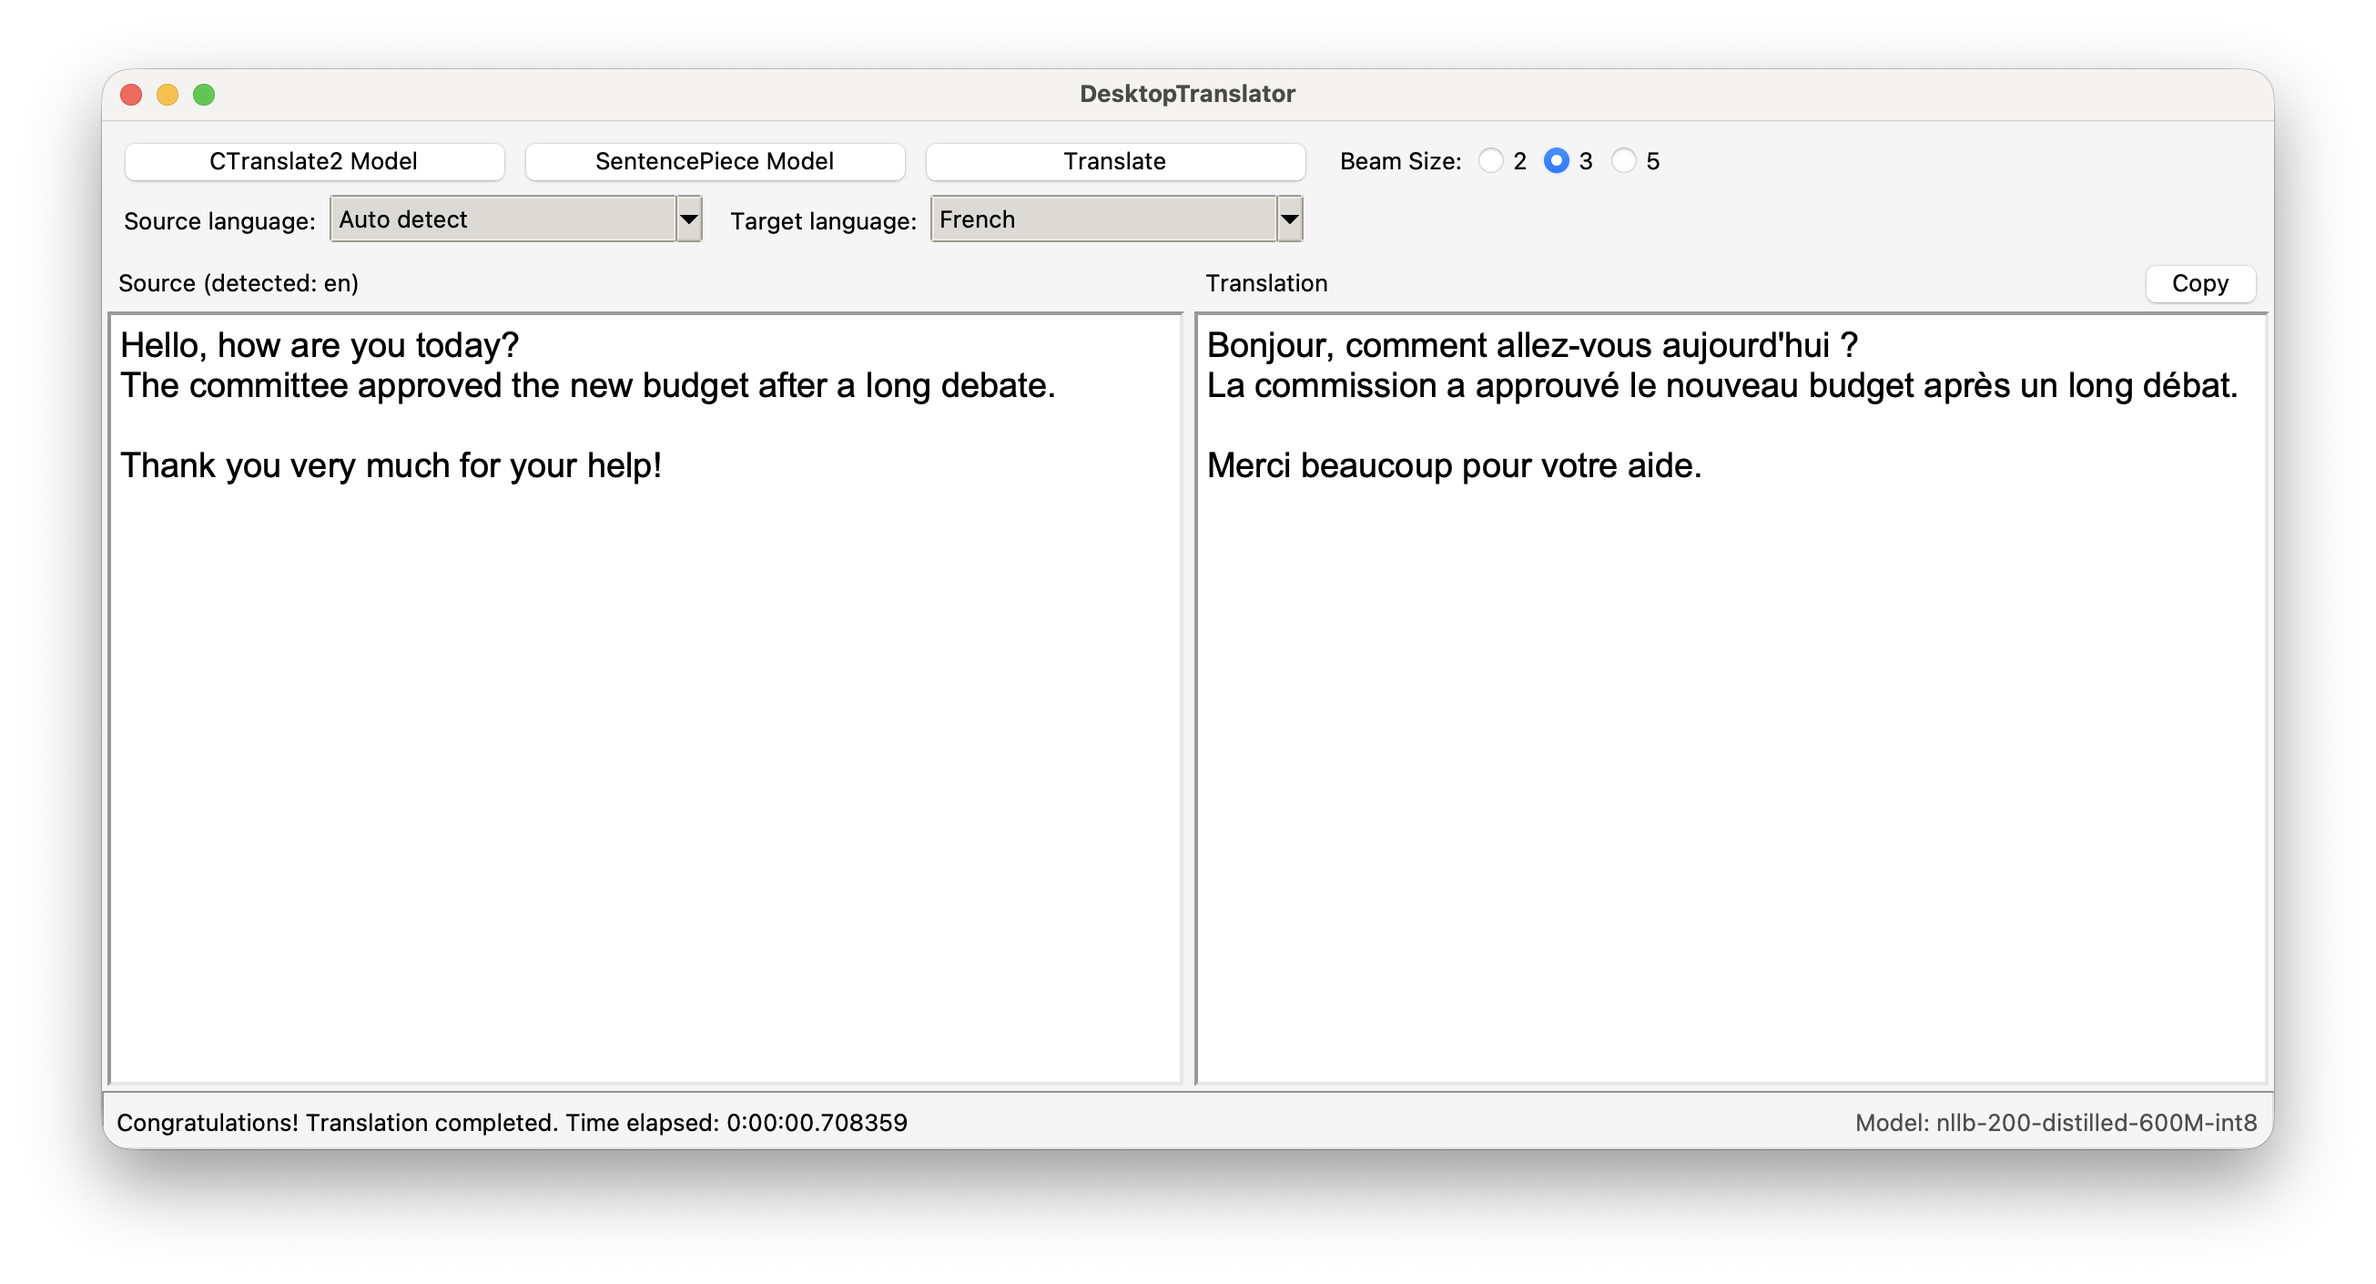
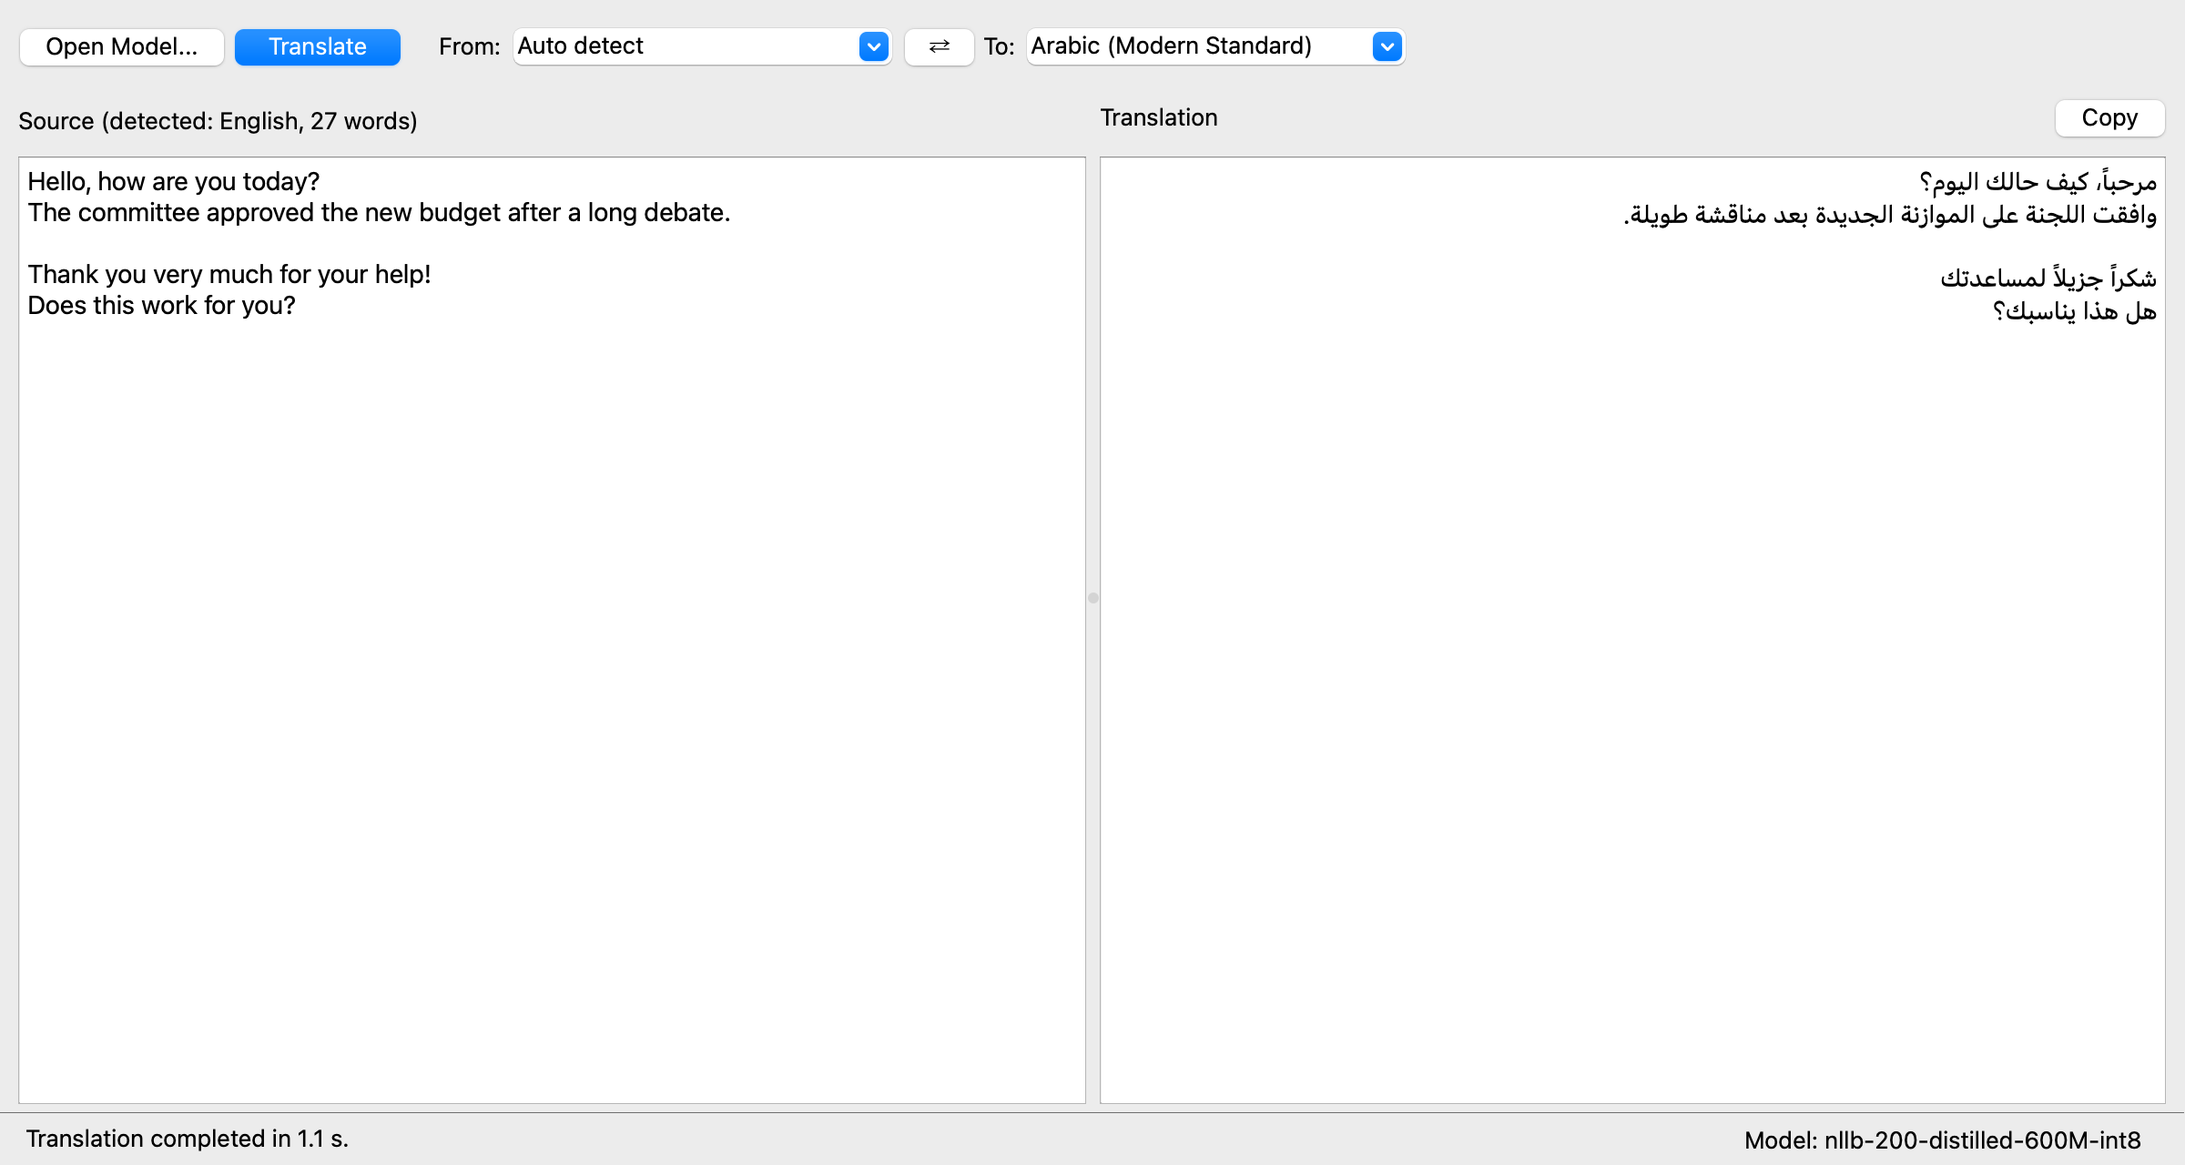
Update the README, CHANGELOG, and screenshot for the Qt interface

Changed region(s): [[0.0, 0.0, 1.0, 1.0], [0.5, 0.3438, 0.7188, 0.375], [0.75, 0.1875, 0.7812, 0.2188]]

diff --git a/README.md b/README.md
@@ -1,14 +1,15 @@
-[![DesktopTranslator](https://img.shields.io/badge/Download-Windows_Installer_v0.3.2-blue)](https://github.com/ymoslem/DesktopTranslator/releases/download/v0.3.2/DesktopTranslator_Windows_0.3.2.exe)
-[![DesktopTranslator](https://img.shields.io/badge/Download-macOS_App_v0.3.2-red)](https://github.com/ymoslem/DesktopTranslator/releases/download/v0.3.2/DesktopTranslator_macOS_0.3.2.zip)
+[![DesktopTranslator](https://img.shields.io/badge/Download-Windows_Installer_v0.4.0-blue)](https://github.com/ymoslem/DesktopTranslator/releases/download/v0.4.0/DesktopTranslator_Windows_0.4.0.exe)
+[![DesktopTranslator](https://img.shields.io/badge/Download-macOS_App_v0.4.0-red)](https://github.com/ymoslem/DesktopTranslator/releases/download/v0.4.0/DesktopTranslator_macOS_0.4.0.zip)
 
 # DesktopTranslator
-Local cross-platform machine translation GUI, based on [CTranslate2](https://github.com/OpenNMT/CTranslate2)
+Local cross-platform machine translation app, based on [CTranslate2](https://github.com/OpenNMT/CTranslate2). Your text stays on your computer.
 
 ![DesktopTranslator](img/DesktopTranslator.png)
 
 **Table of contents**
 
 1. [Download DesktopTranslator](#download-desktoptranslator)
+1. [Using DesktopTranslator](#using-desktoptranslator)
 1. [Run from Source](#run-from-source)
 1. [Translation Models](#translation-models)
     * [French-to-English Generic Model](#french-to-english-generic-model)
@@ -23,41 +24,65 @@ Local cross-platform machine translation GUI, based on [CTranslate2](https://git
     
 ## Download DesktopTranslator
    
-[![DesktopTranslator](https://img.shields.io/badge/Download-Windows_Installer_v0.3.2-blue)](https://github.com/ymoslem/DesktopTranslator/releases/download/v0.3.2/DesktopTranslator_Windows_0.3.2.exe)
-[![DesktopTranslator](https://img.shields.io/badge/Download-macOS_App_v0.3.2-red)](https://github.com/ymoslem/DesktopTranslator/releases/download/v0.3.2/DesktopTranslator_macOS_0.3.2.zip)
+[![DesktopTranslator](https://img.shields.io/badge/Download-Windows_Installer_v0.4.0-blue)](https://github.com/ymoslem/DesktopTranslator/releases/download/v0.4.0/DesktopTranslator_Windows_0.4.0.exe)
+[![DesktopTranslator](https://img.shields.io/badge/Download-macOS_App_v0.4.0-red)](https://github.com/ymoslem/DesktopTranslator/releases/download/v0.4.0/DesktopTranslator_macOS_0.4.0.zip)
 
 <img src="img/installer.png" width="60%">
 
 The installers are not signed. On macOS (Apple Silicon), open **System Settings** > **Privacy & Security** and click **Open Anyway** the first time you launch the app. On Windows, SmartScreen may show a warning; click **More info** > **Run anyway**.
 
 
+## Using DesktopTranslator
+
+1. Choose <kbd>Translate</kbd> menu \> <kbd>Open Model...</kbd> (<kbd>Ctrl</kbd>/<kbd>Cmd</kbd> + <kbd>M</kbd>) and select the folder of a [translation model](#translation-models). The SentencePiece model is found in the same folder; if there are several, you are asked which one to use.
+2. For a multilingual model, select the target language. The source language is detected, and the Source header shows it with the number of words. To choose the source language yourself, use the <kbd>From</kbd> list. The <kbd>⇄</kbd> button swaps the two languages.
+3. Type or paste text on the left, or open a file with <kbd>File</kbd> menu \> <kbd>Open Text...</kbd> (plain text files only; use <kbd>Reopen Text with Encoding...</kbd> if the characters look wrong). You can also drop a text file on the source pane.
+4. Click <kbd>Translate</kbd>. The translation appears as it is made, with the time left, and you can click <kbd>Cancel</kbd> to stop; the part that is done is kept. Use <kbd>Copy</kbd> or <kbd>File</kbd> menu \> <kbd>Save Translation...</kbd> when it is finished.
+
+Right-to-left languages such as Arabic, Persian, Urdu, and Hebrew are displayed and edited right to left, and the app follows the dark mode of your system. Use the <kbd>View</kbd> menu to change the text size.
+
+**Preferences** (<kbd>Edit</kbd> menu \> <kbd>Preferences...</kbd>)
+
+| Option | Effect |
+|---|---|
+| Translation quality | Fast (beam size 2), Balanced (3, the default), or Accurate (5, slower and sometimes better) |
+| Avoid repeated words | A repetition penalty of 1.2, off by default because translations scored higher without it in tests (`tests/repetition_penalty_eval.py`) |
+| Join lines inside a paragraph | For text from PDF files or OCR, where lines break in the middle of a sentence |
+| Remember the last model and target language | Opens the same model the next time |
+
+**Long texts.** The text area accepts up to 20,000 words. For a longer text, use <kbd>File</kbd> menu \> <kbd>Translate Document...</kbd> (<kbd>Ctrl</kbd>/<kbd>Cmd</kbd> + <kbd>Shift</kbd> + <kbd>O</kbd>), which translates a plain text file into another file in the background, with progress and the time left. If you cancel, the translated part is saved. PDF and Word files are not supported; save them as plain text first.
+
+Each sentence is translated on its own, and a sentence that repeats is translated once and reused, so it is translated the same way everywhere.
+
+**Memory.** A model needs about 1.3 times the size of its `model.bin` file, plus 1 GB, and the app warns you if the computer has less memory free. Measured peaks are about 1.7 GB for NLLB-200 600M, 2.6 GB for 1.3B, and 5.4 GB for 3.3B.
+
+
 ## Run from Source
 
-You need Python 3.11 or later, with Tkinter. The installers from [python.org](https://www.python.org/downloads/) include Tkinter. On Linux, you can install it with your package manager, e.g. `sudo apt install python3-tk`.
+You need Python 3.11 or later.
 ```
 git clone https://github.com/ymoslem/DesktopTranslator.git
 cd DesktopTranslator
 python3 -m venv .venv
 source .venv/bin/activate
 pip install -r requirements.txt
-python translator.py
+python qt_app.py
 ```
 On Windows, activate the virtual environment with `.venv\Scripts\activate`.
 
 
 ## Translation Models
 
-Currently, DesktopTranslator supports CTranslate2 models, and SentencePiece subwording models (you need both). If you have a model for OpenNMT-py, OpenNMT-tf, or FairSeq, you can [convert it to the CTranslate2 format](https://github.com/OpenNMT/CTranslate2#quickstart).
+DesktopTranslator supports CTranslate2 models with their SentencePiece subwording models (you need both). If you have a model for OpenNMT-py, OpenNMT-tf, or FairSeq, you can [convert it to the CTranslate2 format](https://github.com/OpenNMT/CTranslate2#quickstart).
 
 ### French-to-English Generic Model
 
 If you would like to try out the app and you do not have a model, you can download my [French-to-English generic model here](https://github.com/ymoslem/DesktopTranslator/releases/download/v0.2.3/fren.zip). 
 1. Unzip the `fren.zip` archive of the French-to-English generic model you just downloaded. It has two folders, `ct2_model` for the CTranslate2 model and `sp_model` for the SentencePiece subwording models of French (source) and English (target).
-2. In DesktopTranslator, click the <kbd>CTranslate2 Model</kbd> button, and select the `ct2_model` folder.
-3. Click the <kbd>SentencePiece Model</kbd> button, navigate to the `sp_model` folder, and select `fr.model`.
-4. The default <kbd>Beam Size</kbd> is 3. You can increase it to 5, which can be slower, but sometimes results in better translation quality.
-5. In the left input text-area, type some text in French or use the <kbd>File</kbd> menu \> <kbd>Open...</kbd> to open a *.txt file.
-6. Click the <kbd>Translate</kbd> button.
+2. In DesktopTranslator, click the <kbd>Open Model...</kbd> button, and select the `ct2_model` folder.
+3. When you are asked for the SentencePiece model, navigate to the `sp_model` folder, and select `fr.model`.
+4. In the left text area, type some text in French or use the <kbd>File</kbd> menu \> <kbd>Open Text...</kbd> to open a *.txt file.
+5. Click the <kbd>Translate</kbd> button. The default translation quality is "Balanced"; you can change it in the Preferences.
 
 ### M2M-100 Multilingual Model
 
@@ -68,26 +93,22 @@ To use M2M-100 models in DesktopTranslator, please follow these steps:
     a. [M2M-100 418M-parameter model](https://github.com/ymoslem/DesktopTranslator/releases/download/v0.2.1/M2M-100_418m_parameter_model_ct2.zip); smaller and faster, but sometimes less accurate; or  
     b. [M2M-100 1.2B-parameter model](https://github.com/ymoslem/DesktopTranslator/releases/download/v0.2.1/M2M-100_12b_parameter_model_ct2.zip); bigger and somehow slower, but sometimes more accurate.
 2. Extract the *.zip arhieve of the model you downloaded.
-3. In DesktopTranslator, click the <kbd>CTranslate2 Model</kbd> button, and select the `m2m100_418m` or `m2m100_12b` folder.
-4. Click the <kbd>SentencePiece Model</kbd> button, and from the same model folder, select `sentencepiece.model`.
-5. **Important:** From the <kbd>Target language</kbd> dropdown list, select the target language to which you want to translate. This step is different between M2M-100 and some other models. M2M-100 models require a language code prefix. For other models that do not require this, keep the "None" option.
-6. The default <kbd>Beam Size</kbd> is 3. You can increase it to 5, which can be slower, but sometimes results in better translation quality.
-7. In the left input text-area, type some text in any language or your choice of use the <kbd>File</kbd> menu \> <kbd>Open...</kbd> to open a *.txt file.
-8. Click the <kbd>Translate</kbd> button.
+3. In DesktopTranslator, click the <kbd>Open Model...</kbd> button, and select the `m2m100_418m` or `m2m100_12b` folder. Its `sentencepiece.model` is used automatically.
+4. From the <kbd>To</kbd> list, select the language to which you want to translate. The source language is detected, or you can select it in the <kbd>From</kbd> list.
+5. In the left text area, type some text in any language or use the <kbd>File</kbd> menu \> <kbd>Open Text...</kbd> to open a *.txt file.
+6. Click the <kbd>Translate</kbd> button.
    
 ### NLLB-200 Multilingual Model
 
 DesktopTranslator also supports [**NLLB-200**](https://arxiv.org/abs/2207.04672) ([NLLB Team et al., 2022](https://arxiv.org/abs/2207.04672)), a multilingual model that can translate between 200 languages. Note that Meta released the NLLB-200 models under the [CC-BY-NC 4.0](https://creativecommons.org/licenses/by-nc/4.0/) license, which does not allow commercial use. To use them, please follow these steps:
 1. Download one of the NLLB-200 models, converted to the CTranslate2 format with int8 quantization:  
-    a. [NLLB-200 distilled 600M-parameter model](https://github.com/ymoslem/DesktopTranslator/releases/download/v0.3.0/NLLB-200_distilled_600M_int8_ct2.zip); the smallest and fastest, and good for most uses. You can also use the <kbd>Help</kbd> menu \> <kbd>Download NLLB-200 600M Model</kbd>; or  
+    a. [NLLB-200 distilled 600M-parameter model](https://github.com/ymoslem/DesktopTranslator/releases/download/v0.3.0/NLLB-200_distilled_600M_int8_ct2.zip); the smallest and fastest, and good for most uses. You can also use the <kbd>Help</kbd> menu \> <kbd>Get Models...</kbd>; or  
     b. [NLLB-200 distilled 1.3B-parameter model](https://github.com/ymoslem/DesktopTranslator/releases/download/v0.3.0/NLLB-200_distilled_1.3B_int8_ct2.zip); slower and needs more memory, but sometimes more accurate; or  
     c. [NLLB-200 3.3B-parameter model](https://pretrained-nmt-models.s3.us-west-004.backblazeb2.com/CTranslate2/nllb/nllb-200_3.3B_int8_ct2.zip) (3.1 GB); the largest, slowest, and needs the most memory. This archive does not include a SentencePiece model, so also download [NLLB-200_sentencepiece.model](https://github.com/ymoslem/DesktopTranslator/releases/download/v0.3.0/NLLB-200_sentencepiece.model).
 2. Extract the *.zip archive.
-3. In DesktopTranslator, click the <kbd>CTranslate2 Model</kbd> button, and select the model folder, for example `nllb-200-distilled-600M-int8`.
-4. Click the <kbd>SentencePiece Model</kbd> button, and from the same folder, select `sentencepiece.model`. For the 3.3B model, select the `NLLB-200_sentencepiece.model` file you downloaded.
-5. From the <kbd>Target language</kbd> dropdown list, select the language to which you want to translate. Language varieties are grouped, for example "Arabic (Modern Standard)" and "Arabic (Egyptian)". The source language is detected automatically; to choose it yourself, use the dropdown list above the source text.
-6. For right-to-left target languages such as Arabic, Persian, Urdu, and Hebrew, the translation is displayed right to left in a read-only pane, because the text widget cannot edit or select right-to-left lines correctly. Use the <kbd>Copy</kbd> button above the pane to copy the translation. To edit it, clear <kbd>Translate</kbd> menu \> <kbd>Right-to-Left View</kbd>.
-7. Click the <kbd>Translate</kbd> button. You can click <kbd>Cancel</kbd> to stop a long translation.
+3. In DesktopTranslator, click the <kbd>Open Model...</kbd> button, and select the model folder, for example `nllb-200-distilled-600M-int8`. Its `sentencepiece.model` is used automatically. For the 3.3B model, when you are asked, select the `NLLB-200_sentencepiece.model` file you downloaded.
+4. From the <kbd>To</kbd> list, select the language to which you want to translate. You can type to search the list. Language varieties are grouped, for example "Arabic (Modern Standard)" and "Arabic (Egyptian)". The source language is detected automatically; to choose it yourself, use the <kbd>From</kbd> list.
+5. Click the <kbd>Translate</kbd> button. You can click <kbd>Cancel</kbd> to stop a long translation.
 
 ### OPUS Models
 
@@ -112,12 +133,12 @@ pip3 install -r requirements.txt pyinstaller==6.22.3
 
 2. Run PyInstaller. The data folders and the `--collect-data` options are needed, otherwise some languages, such as Turkish, fail to be split into sentences.
 ```
-pyinstaller -y --windowed --name DesktopTranslator --add-data "utils;utils" --collect-data sentence_splitter --collect-data pysbd --collect-all Pmw --collect-all ctranslate2 translator.py
+pyinstaller -y --windowed --name DesktopTranslator --add-data "utils;utils" --add-data "img/icon.png;img" --add-data "NOTICE.md;." --icon img/icon.png --collect-data sentence_splitter --collect-data pysbd --collect-all ctranslate2 qt_app.py
 ```
 3. Try the `*.exe` file under "dist\DesktopTranslator" to make sure it works.
 4. Download and install [NSIS](https://nsis.sourceforge.io/Download), and then create the installer with the script [installer.nsi](installer.nsi). It installs the app to "Program Files", and adds Start menu and Desktop shortcuts and an uninstaller.
 ```
-makensis /DVERSION=0.3.2 installer.nsi
+makensis /DVERSION=0.4.0 installer.nsi
 ```
 
 If you prefer to create the installer with the NSIS graphical interface, you can follow these steps instead of step 4:
@@ -138,13 +159,13 @@ If you get a permission error while trying to save the edited version of “Mode
 
 ### Build macOS App
 
-1. Install the requirements and PyInstaller, preferably in a virtual environment. A Python from [python.org](https://www.python.org/downloads/macos/) includes a recent Tk.
+1. Install the requirements and PyInstaller, preferably in a virtual environment.
 ```
 pip3 install -r requirements.txt pyinstaller==6.22.3
 ```
 2. Run PyInstaller. This creates "dist/DesktopTranslator.app", for the type of Mac you are using.
 ```
-pyinstaller -y --windowed --name DesktopTranslator --add-data "utils:utils" --collect-data sentence_splitter --collect-data pysbd --collect-all Pmw --collect-all ctranslate2 translator.py
+pyinstaller -y --windowed --name DesktopTranslator --add-data "utils:utils" --add-data "img/icon.png:img" --add-data "NOTICE.md:." --icon img/icon-macos.png --collect-data sentence_splitter --collect-data pysbd --collect-all ctranslate2 qt_app.py
 ```
 3. To share the app, compress it into a *.zip archive.
 ```

diff --git a/CHANGELOG.md b/CHANGELOG.md
@@ -1,6 +1,30 @@
 # Changelog
 
 
+## v0.4.0
+
+### Changed
+
+- A new interface built with Qt (PySide6), replacing Tkinter. The Tkinter interface stays available in the `tk` branch
+- Right-to-left text, such as Arabic, is edited and selected right to left, and each paragraph follows its own direction
+- The app follows the dark mode of the system, and the text size can be changed in the View menu
+- The model is opened with one folder selection; its SentencePiece model is found automatically
+- Translation quality (Fast, Balanced, Accurate) and the other options are in Edit > Preferences
+- The translation appears as it is made, and Cancel keeps the part that is done
+- The source header shows the detected language and the number of words
+- A sentence that repeats in a text is translated once, so it is translated the same way everywhere
+- The Windows installer and the macOS app have a new icon
+
+### Added
+
+- File > Translate Document translates a plain text file into another file in the background, with progress, time left, and Cancel. The translated part is kept if you cancel
+- Texts over 20,000 words are not translated in the window; the app offers File > Translate Document instead
+- A warning when the computer may not have enough memory free for the model
+- A message when a PDF or Word file is opened, because only plain text files are supported
+- Search in the language lists, and a button to swap the source and target languages
+- Dropping a text file on the source pane opens it
+
+
 ## v0.3.2
 
 ### Added
